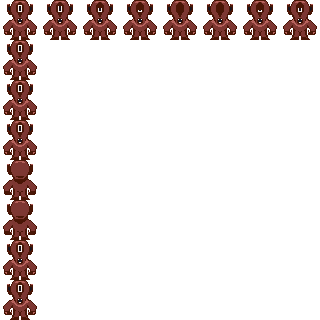
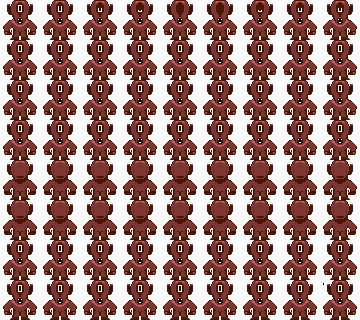
Animation for Enemies coded

diff --git a/js/enemy/enemy.js b/js/enemy/enemy.js
@@ -28,6 +28,10 @@ function enemyClass() {
 	this.canMoveEast = true;
 	this.canMoveSouth = true;
 	this.canMoveWest = true;
+
+	this.animateEnemyStandingStill = false;
+	this.drawTimer = 0;
+	this.frames = 8;
 	
 	this.enemyReset = function() {
 		this.speed = 3;
@@ -218,6 +222,17 @@ function enemyClass() {
 	}
 		
 	this.draw = function(){
+		if(this.offSetHeight == 0){ //enemy is standing still
+			let toAnimateEnemyNumber = getRndInteger(0, 1000);
+			if(toAnimateEnemyNumber > 995){
+				this.animateEnemyStandingStill = true;
+			}
+			if(this.animateEnemyStandingStill){
+				this.animateEnemy()
+			}
+		} else { //player is moving
+			this.animateEnemy();
+		}
 		gameCoordToIsoCoord(this.x,this.y);
 		canvasContext.drawImage(shadowPic,isoDrawX-(this.width/2), isoDrawY-this.height - ISO_CHAR_FOOT_Y);
 		colorText(this.myName, isoDrawX + 20, isoDrawY - 30, "black", "8px Arial Black");
@@ -228,5 +243,17 @@ function enemyClass() {
 		colorRect(isoDrawX-(this.width/2) + 3, isoDrawY-this.height - 19, (this.health / this.maxHealth) * 24, 9, "green");
 		canvasContext.drawImage(healthbarPic,isoDrawX-(this.width/2), isoDrawY-this.height - 20);
 		//colorRect(this.miniMapX, this.miniMapY, 10, 10, "green");	
+	}
+
+	this.animateEnemy = function(){
+		this.drawTimer++;
+		if(this.drawTimer == 8){
+			this.offSetWidth = this.offSetWidth + this.width;
+			this.drawTimer = 0;
+		}
+		if(this.offSetWidth > (this.frames * this.width)){
+			this.offSetWidth = 0;
+			this.animateEnemyStandingStill = false;
+		}
 	}
 }

diff --git a/js/enemy/miniCyclop.js b/js/enemy/miniCyclop.js
@@ -31,3 +31,4 @@ function miniCyclop() {
 	this.draw = function(){
 		this.superClassDraw();
 	}
+}
